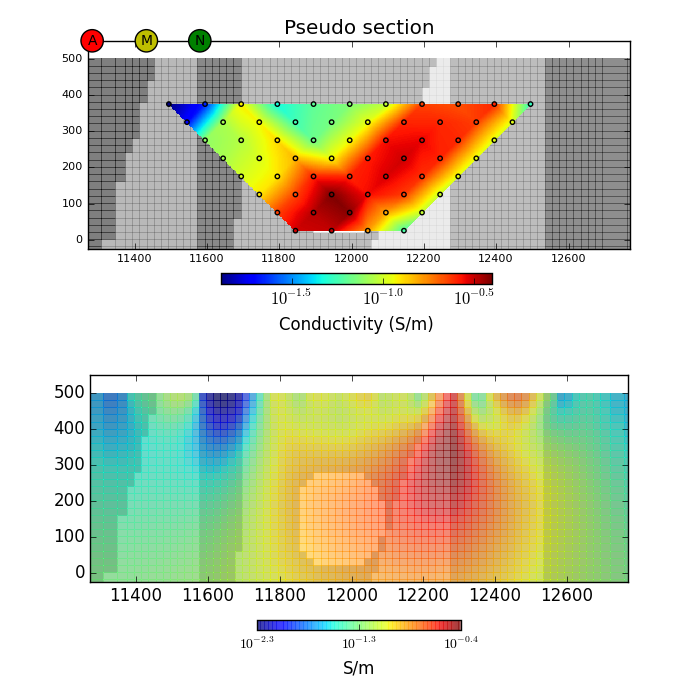
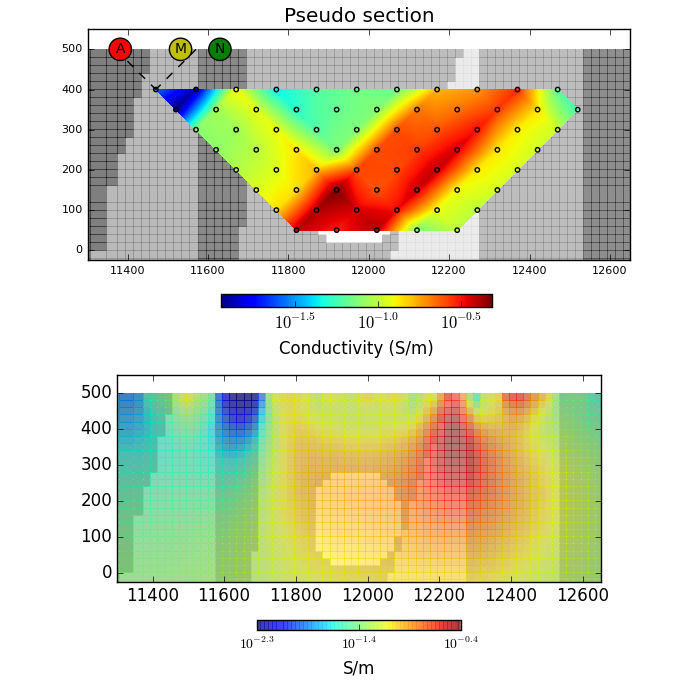
Merge Master for new theme - MIM Survey update

diff --git a/content/case_histories/mt_isa/survey.rst b/content/case_histories/mt_isa/survey.rst
@@ -14,7 +14,7 @@ The fundamentals for a DCR survey can be found in the :ref:`Geophysical Surveys 
 
 (b) The area of interest is approximately 2km by 5km. Although full 3D coverage was desireable, the field acquistion was limited to 10 east-west lines. The reason for this was two fold. Firstly, the 2D lines could be laid out across the East-West boundaries of Cluny region. Secondly, the fault structures were known to strike north-south, so it is natural to have the survey perpendicular to strike in order to generate the most physical property contrast along line. Most lines consisted of 21 current electrode locations (the three to the north had 19) with each current electrode having a maximum of 20 potential readings.
 
-(c) The choice of a pole-dipole was motivated by past experience that this was an effective survey for deep targets. The layout shown in {figure} indicates a current electrode at position 1 with potentials measured across all other dipoles. This produces a :ref:`pseudo-section<dcr_pseudosection>`. Furthermore, with the MIMDAS system, a pole-dipole (P-DP) and dipole-pole (DP-P) could be acquired along each line at no additional cost. The system spaced each potential electrode 100-m apart. 
+(c) The choice of a pole-dipole was motivated by past experience that this was an effective survey for deep targets. The layout shown in {figure} indicates a current electrode at position 1 with potentials measured across all other dipoles. This produces a :ref:`pseudo-section<dcr_pseudosection>`. Furthermore, with the MIMDAS system, a pole-dipole (P-DP) and dipole-pole (DP-P) could be acquired along each line at no additional cost. The system spaced each potential electrode 100-m apart.
 
 
 .. _MIMDAS: http://www.smedg.org.au/Sym01NS.htm
@@ -23,7 +23,18 @@ The fundamentals for a DCR survey can be found in the :ref:`Geophysical Surveys 
 Survey Design
 -------------
 
-The geologic structures are primarily striking north-south and a cross-section of the geologic units and their resistivities is shown in :numref:`Geology_Section`. The unit of interest is the Mt. Novit Horizon which is conductive compared to the host Moondarra Siltsone. Two sets of data are forward modelled: one with and one without the conductor. The pole-dipole pseudo-sections obtained with 15 electrodes spaced 100 meters apart are shown below (:numref:`MIM_DPP_Simulation`).
+The :ref:`detectability <surveyDetectability>` property of a given survey
+depends mainly on its ability to inject electrical currents into the
+mineralization. The geologic structures at Mount Isa are primarily steeply
+dipping geological units striking north-south. The unit of interest is the Mt.
+Novit Horizon which is conductive compared to the host Moondarra Siltsone. We
+also expect a large conductuctivity contrast between the Breakaway Shale unit
+and the Native Bee siltstone, which may also be a host for mineralization.
+This alternating sequence of high and low conductivity may be an important
+factor to consider during survey design. To better understand this particular
+setting, we :ref:`simulate<Mt_Isa_Simulation>` the flow of current through the
+expected geology. Important to note the current channeling of the source
+through the Breakaway Shale and the expected mineralization.
 
 .. _Mt_Isa_Simulation:
 .. list-table:: : DCR simulation over a synthetic Mt. Isa conductivity model
@@ -33,25 +44,35 @@ The geologic structures are primarily striking north-south and a cross-section o
 
    *  - .. raw:: html
             :file: ./images/Mt_Isa_Current_Anim.html
+   *  - Current density (arrows) and charge density (color) for a range of source locations (Powered by: `SimPEG <http://www.simpeg.xyz/>`_).
 
-Current density (arrows) and charge density (color) for a range of source locations (Powered by: `SimPEG <http://www.simpeg.xyz/>`_).
 
- .. figure:: ./images/MIM_PDP_Simulation.png
-    :align: right
-    :figwidth: 50%
-    :name: MIM_PDP_Simulation
 
- .. figure:: ./images/MIM_DPP_Simulation.png
-    :align: right
-    :figwidth: 50%
-    :name: MIM_DPP_Simulation
+.. figure:: ./images/MIM_PDP_Simulation.png
+  :align: right
+  :figwidth: 50%
+  :name: MIM_PDP_Simulation
 
-    Log10 pseudo-conductivity section along the geological section and the recovered 2D conductivity model from the inversion of DCR data. The top two figures are for the pole-dipole survey and the bottom two images coorrespond to the dipole-pole survey along the same line. In both figures, the true conductivity model is shown in grey scale for reference.
+.. figure:: ./images/MIM_PDP_Simulation_NoMin.png
+  :align: right
+  :figwidth: 50%
+  :name: MIM_PDP_Simulation_NoMin
 
-.. todo::
-  To determine if the survey is well designed we use the criteria for :ref:`detectability <surveyDetectability>` The difference sections are shown in {figure}. They show xxx If errors are assigned as 5% + floor 0.0001 V then the secondary signal from the target is detectable.
+  Log10 pseudo-conductivity section along the geological section and the recovered 2D conductivity model from the inversion of DCR data. The top two figures are for the pole-dipole survey and the bottom two images coorrespond to the dipole-pole survey along the same line. In both figures, the true conductivity model is shown in grey scale for reference.
 
-  Inversion of Synthetic data Following the work {link: general basics of survey design} we invert the synthetic data using 2D algorithm.  The parameters used in the inversion were:  xxxxx. The Mt. Norvit Horizon is evident.
+From the numerical simulation, we can generate synthetic data in order to test
+the resolving power of our DCR experiment.  We want to assess if pole-dipole
+configuration is sensitive to the mineralization at depth. To answer this
+question, we forward model two scenarios. The pole-dipole pseudo-sections
+obtained with 15 electrodes spaced 100 meters apart with and one without the
+deep conductor are shown in :numref:`MIM_PDP_Simulation` and
+:numref:`MIM_PDP_Simulation_NoMin` respectively. At first glance, both pseudo-
+sections look almost identical.
 
-  Using 2D forward modelling, we can also simulate current flows that could be expected at Mt. Isa. Note in particular the current channeling into the conductive Breakaway Shale as well as through the deeper mineralization.
+The difference sections are shown in {figure}. They show xxx If errors are assigned as 5% + floor 0.0001 V then the secondary signal from the target is detectable.
+
+Inversion of Synthetic data Following the work {link: general basics of survey design} we invert the synthetic data using 2D algorithm.  The parameters used in the inversion were:  xxxxx. The Mt. Norvit Horizon is evident.
+
+Using 2D forward modelling, we can also simulate current flows that could be expected at Mt. Isa. Note in particular the current channeling into the conductive Breakaway Shale as well as through the deeper mineralization.
+
 
